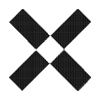
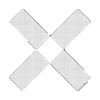
Sparks added in

diff --git a/Qix/Assets/Behaviours/CharMovement.cs b/Qix/Assets/Behaviours/CharMovement.cs
@@ -819,6 +819,7 @@ public class CharMovement : MonoBehaviour
     /// <param name="areaFilled"></param>
     void UpdateScore(int areaFilled)
     {
+        double pastScore = score;
         //calc percentage
         double result = ((double)areaFilled / 11250) * 100;
         //round to 0 decimal places 
@@ -826,11 +827,15 @@ public class CharMovement : MonoBehaviour
         //increment overall score counter
         score += result;
 
-        Debug.Log(score);
+        //Debug.Log("Player: "+score);
+        //Debug.Log("Overall: " +GameManager.instance.overAllFill);
         //set UI component 
         scoreUI.GetComponent<Text>().text = score + "%";
 
-        GameManager.instance.overAllFill += score;
+        if (score > pastScore)
+        {
+            GameManager.instance.overAllFill += score;
+        }
     }
 
     //bool Intersection(float x1, float y1, float x2, float y2, float x3, float y3, float x4, float y4)

diff --git a/Qix/Assets/Behaviours/GameManager.cs b/Qix/Assets/Behaviours/GameManager.cs
@@ -169,8 +169,13 @@ public class GameManager : MonoBehaviour
                 break;
             case GameStates.game:
 
+                double score = 0.0f;
+
+            
 
                 overallPrecentText.GetComponent<Text>().text = "%" + overAllFill;
+
+
                 //when the overall fill has reached 90 or more
                 if (overAllFill >= 70.0f)
                 {
